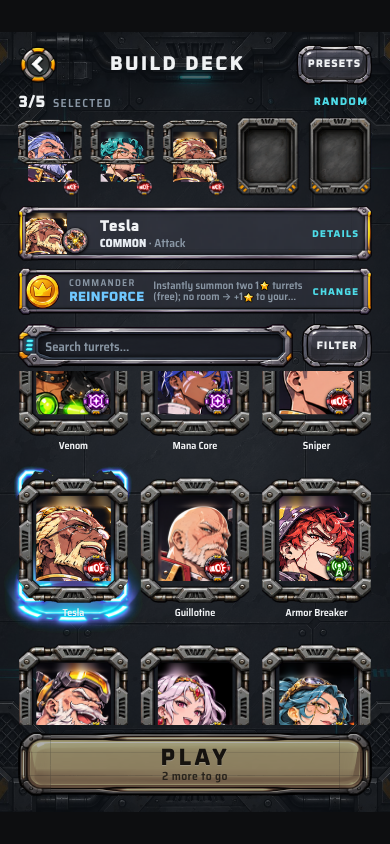
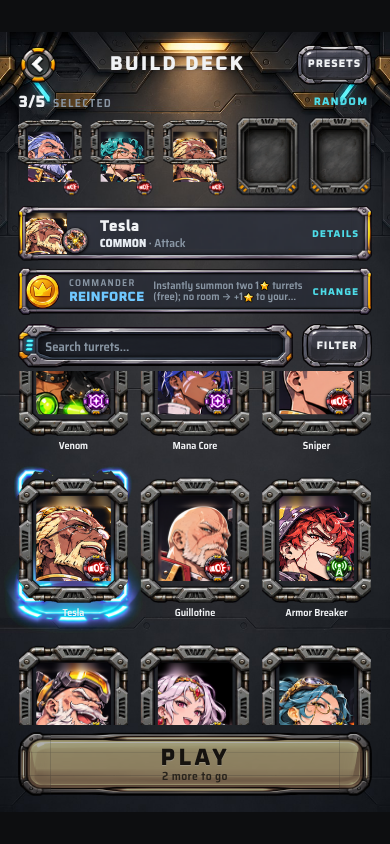
thap: HUD mượt A — nối raw_p7_d00 (nền màn xây bộ bài → nen_deck.jpg)
Claude-Session: https://claude.ai/code/session_016VkJ26f22ubevy4EnREsEV

diff --git a/thap/css/hudmuot-a.css b/thap/css/hudmuot-a.css
@@ -38,7 +38,7 @@
 /* ================= HOME ================= */
 .hm { overflow: hidden; }
 .hm-nen, .dk-nen { position: absolute; inset: 0; width: 100%; height: 100%; object-fit: cover; pointer-events: none; }
-.dk-nen { opacity: .35; }
+.dk-nen { opacity: 1; }
 .hm-dau { position: absolute; left: var(--le); right: var(--le); top: 14px; height: 48px; display: flex; align-items: center; gap: var(--g1); z-index: 3; }
 .hm-tk { flex: 1; min-width: 0; display: flex; }
 .hm-tk #tk-chip { position: static; transform: none; margin: 0; max-width: 100%; }

diff --git a/thap/index.html b/thap/index.html
@@ -112,7 +112,7 @@
       </div>
 
       <div class="dk" id="dk">
-        <img class="dk-nen" src="assets/nen_menu.jpg" alt="">
+        <img class="dk-nen" src="assets/nen_deck.jpg" alt="">
         <div class="dk-dau">
           <button class="hm-ic dk-lui" data-act="hm-ve" aria-label="Back"><img src="assets/ic_lui.png" alt=""></button>
           <b class="dk-tde" id="dk-tde">BUILD DECK</b>

diff --git a/docs/demo-hop-tuong/HINH-VE-CODE-AUDIT.md b/docs/demo-hop-tuong/HINH-VE-CODE-AUDIT.md
@@ -978,4 +978,4 @@ và `css/hud2.css` (thanh trên, khay, nút).
 
 Thứ tự ưu tiên: b1 (thanh + dải xem nhanh) → b2 (nút) → b4 → b3.
 
-**Pass 7 home/deck — đã nối:** `raw_p7_h01` → `thap/assets/nen_home.jpg` (nền HOME, 1024×1536 đục, giữ nguyên độ nét tấm raw). Các tấm còn lại (d00, h02, a1–a8, d02) đang chờ; chỗ dùng tạm ghi ở đầu `thap/css/hudmuot-a.css`.
+**Pass 7 home/deck — đã nối:** `raw_p7_h01` → `thap/assets/nen_home.jpg` (nền HOME), `raw_p7_d00` → `thap/assets/nen_deck.jpg` (nền màn bộ bài) — 1024×1536 đục, giữ nguyên độ nét tấm raw. Các tấm còn lại (h02, a1–a8, d02) đang chờ; chỗ dùng tạm ghi ở đầu `thap/css/hudmuot-a.css`.
